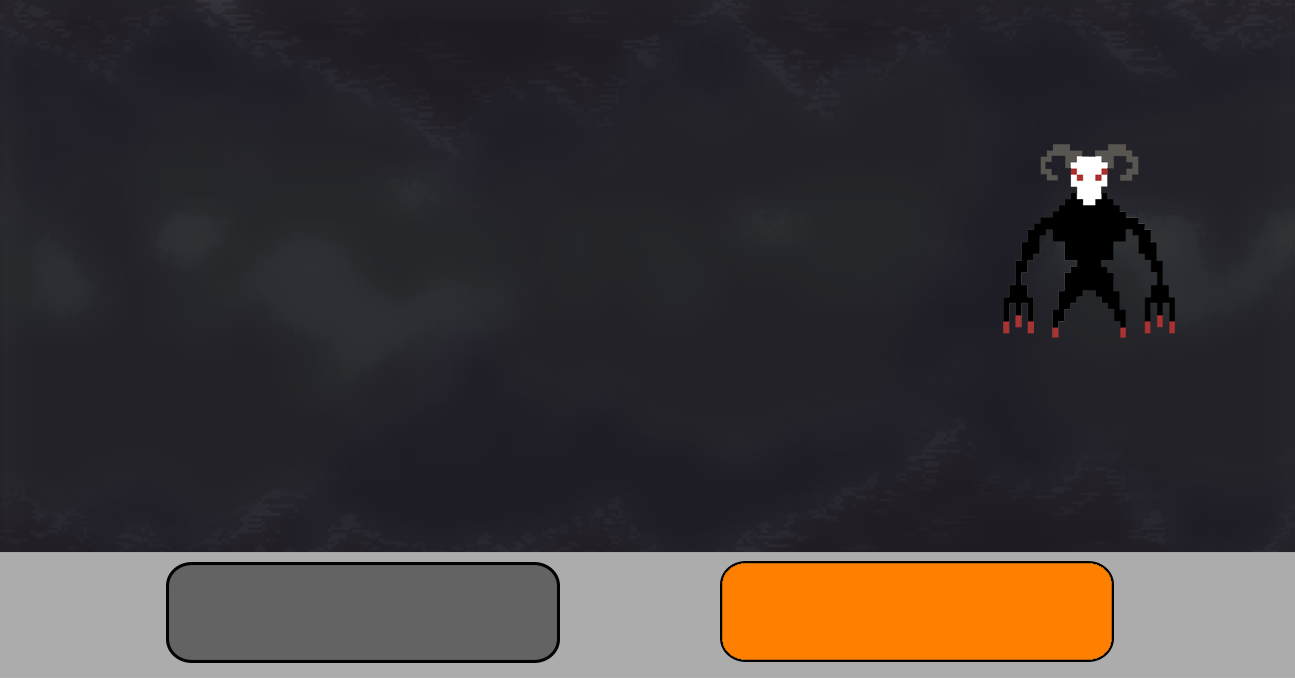
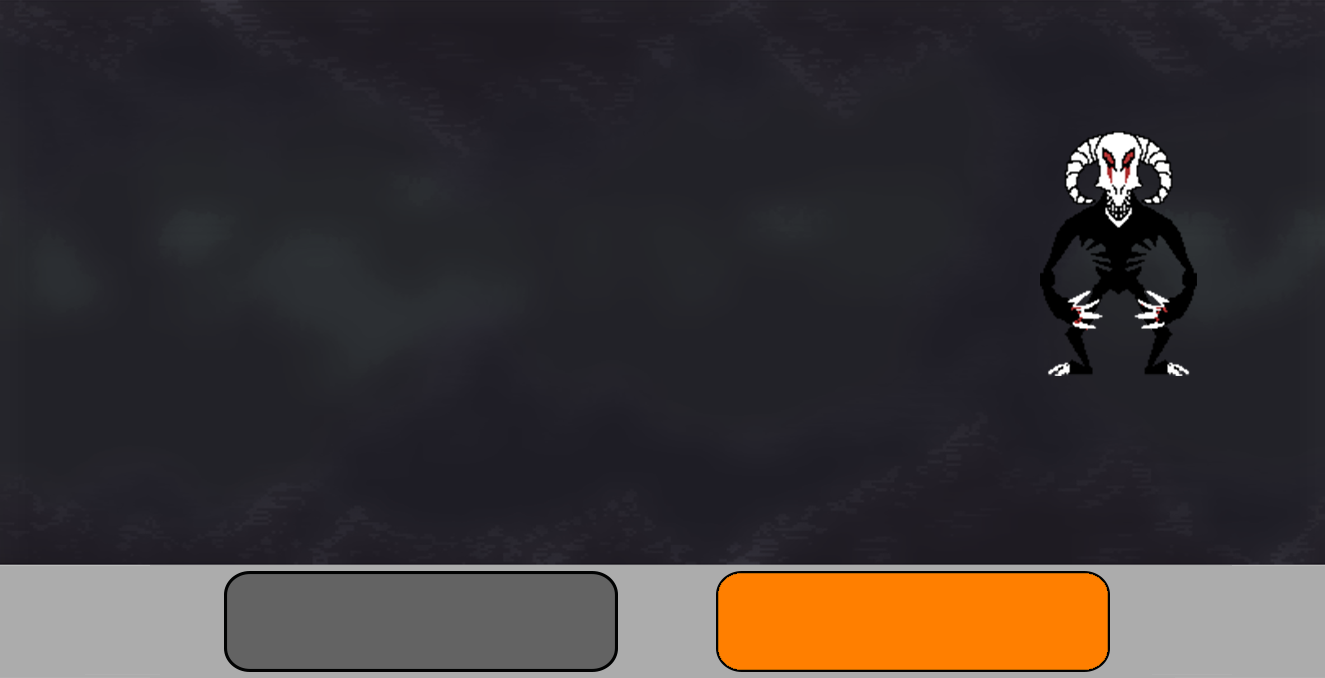
szlify

Changed region(s): [[0.0, 0.8053, 1.0, 0.9912], [0.7722, 0.1858, 0.9266, 0.5575]]

diff --git a/App/UCPoL/src/app/main/components/game/game.component.scss b/App/UCPoL/src/app/main/components/game/game.component.scss
@@ -113,7 +113,7 @@ background-position: center;
     width: 100%;
     height: 100%;
     background-image: url(../../../../assets/img/env/tuo.png);
-    background-size: cover;
+    background-size: contain;
     z-index: 100;
     visibility: $vbattle;
     padding: 0;
@@ -133,64 +133,77 @@ background-position: center;
     
 }
 #battle > h1{
+    padding-top: 1%;
     font-size: 2vw;
     margin-left: 45%;
     color: black;
     text-shadow: 0 0 0.2em white;
 }
+
 #battle > div:nth-child(2){
     float: right;
     margin-top: 2%;
     margin-right: 8%;
     color: red;
     font-size: 1vw;
+    padding: 0;
 
     
 }
 #battle > div:nth-child(3){
-    margin-top: 40%;
-    margin-left: 18%;
+    margin-top: 38.5%;
+    margin-left: 21%;
     float: left;
     font-size: 3vw;
+    padding: 0;
 }
 
 #battle > div:nth-child(4){
-    margin-top: 36%;
+    margin-top: 35.4%;
     float: left;
-    margin-left: 26%;
+    margin-left: 20%;
     font-size: 1vw;
-
-
+    padding: 0;
 }
+
 #battle > div:nth-child(4) > button:nth-child(1){
     width: 5vw;
     // margin-right: 1%;
     background-color: #ff3333;
+    border: solid;
     border-color: red;
+    padding: 0;
 }
 #battle > div:nth-child(4) > button:nth-child(2){
     width: 5vw;
     background-color: #3385ff;
+    border: solid;
     border-color: blue;
+    padding: 0;
 }
 #battle > div:nth-child(4) > button:nth-child(4){
     width: 5vw;
     // margin-right: 1%;
     margin-top: 1%;
     background-color: #66ff66;
+    border: solid;
     border-color: green;
+    padding: 0;
 }
 #battle > div:nth-child(4) > button:nth-child(5){
     width: 5vw;
     margin-top: 1%;
     background-color: #ffe066;
+    border: solid;
     border-color: yellow;
+    padding: 0;
 }
 
 #wynik > div{
     margin-top: -8%;
     margin-left: -2%;
     color: white;
+    padding: 0;
     }
 
 #wynik > div > button

diff --git a/App/UCPoL/src/app/main/components/bars/bars.component.html b/App/UCPoL/src/app/main/components/bars/bars.component.html
@@ -4,7 +4,7 @@
     
 <div class="circle" id ="hp"></div>
 <div id ="lvl"><div id="lel">LVL {{level}}</div>
-<button (click)="changeEXP()">Add exp</button>
+<!-- <button (click)="changeEXP()">Add exp</button> -->
 </div>
 <div class="circle" id ="exp"></div>
 <div class="staty">
@@ -37,11 +37,11 @@ STATYSTYKI
         <img class="item" src={{image.url}}  (click)="unselect3(i, image)"/>  
       </div></div>
    </div>
-<div id="buttony">
+<!-- <div id="buttony">
   <button (click)="add()">Add</button>
   <button (click)="delete()">Delete</button>
   <button (click)="clear()">Clear</button>
-</div>
+</div> -->
 <div id="content">
   <P>BROŃ</P>
   <div id="pusty"></div>

diff --git a/App/UCPoL/src/app/main/components/bars/bars.component.scss b/App/UCPoL/src/app/main/components/bars/bars.component.scss
@@ -43,7 +43,7 @@ $expPrctD : var(--expPrctd);
 }
 #exp{
   float: left;
-  background-image: url(../../../../assets/img/sklo.png), linear-gradient(to top, rgb(255, 217, 0) $expPrct, gray 0%);
+  background-image: url(../../../../assets/img/sklo.png), linear-gradient(to top, rgba(247, 210, 6, 0.801) $expPrct, gray 0%);
   background-size: cover;
   padding: 0;
   margin-left: 1.5%;
@@ -158,6 +158,7 @@ margin: 0;
 }
 
 #content{
+  margin-top: 2%;
   padding: 0;
   margin-left: 4%;
   width: 85%;
